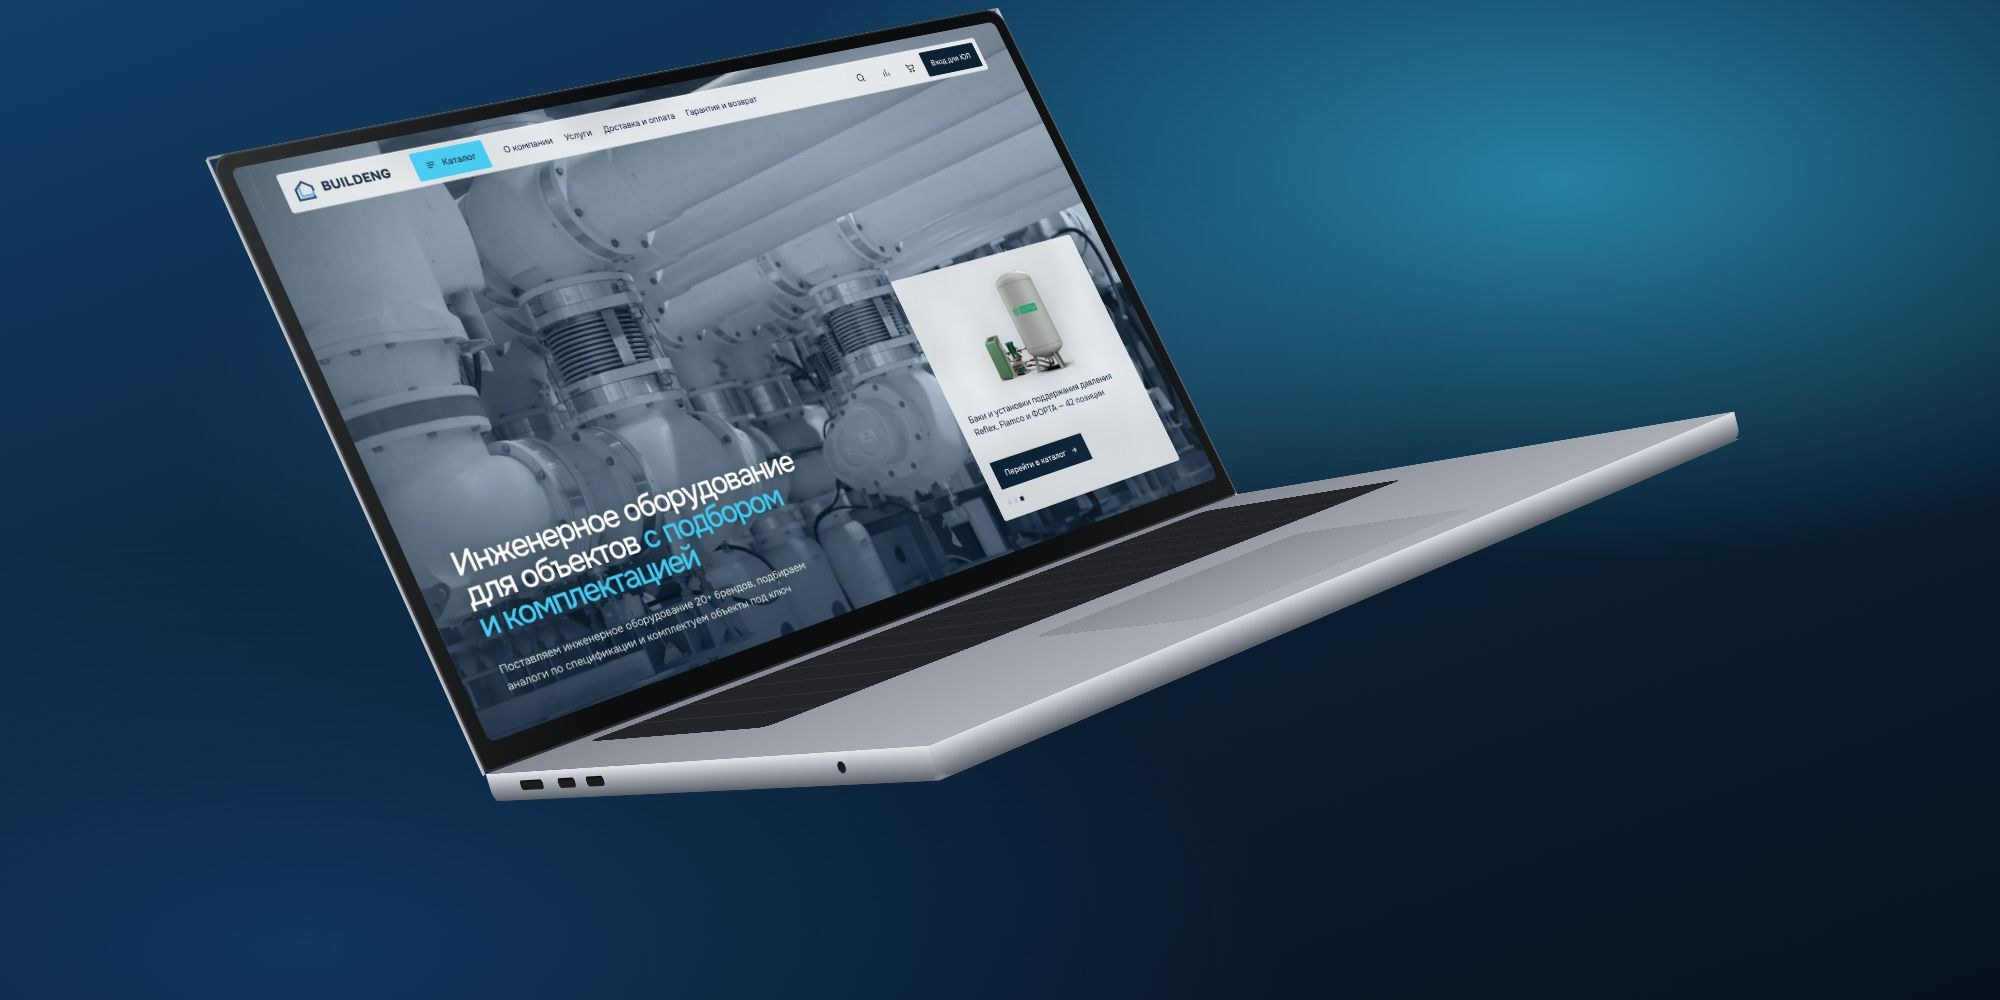
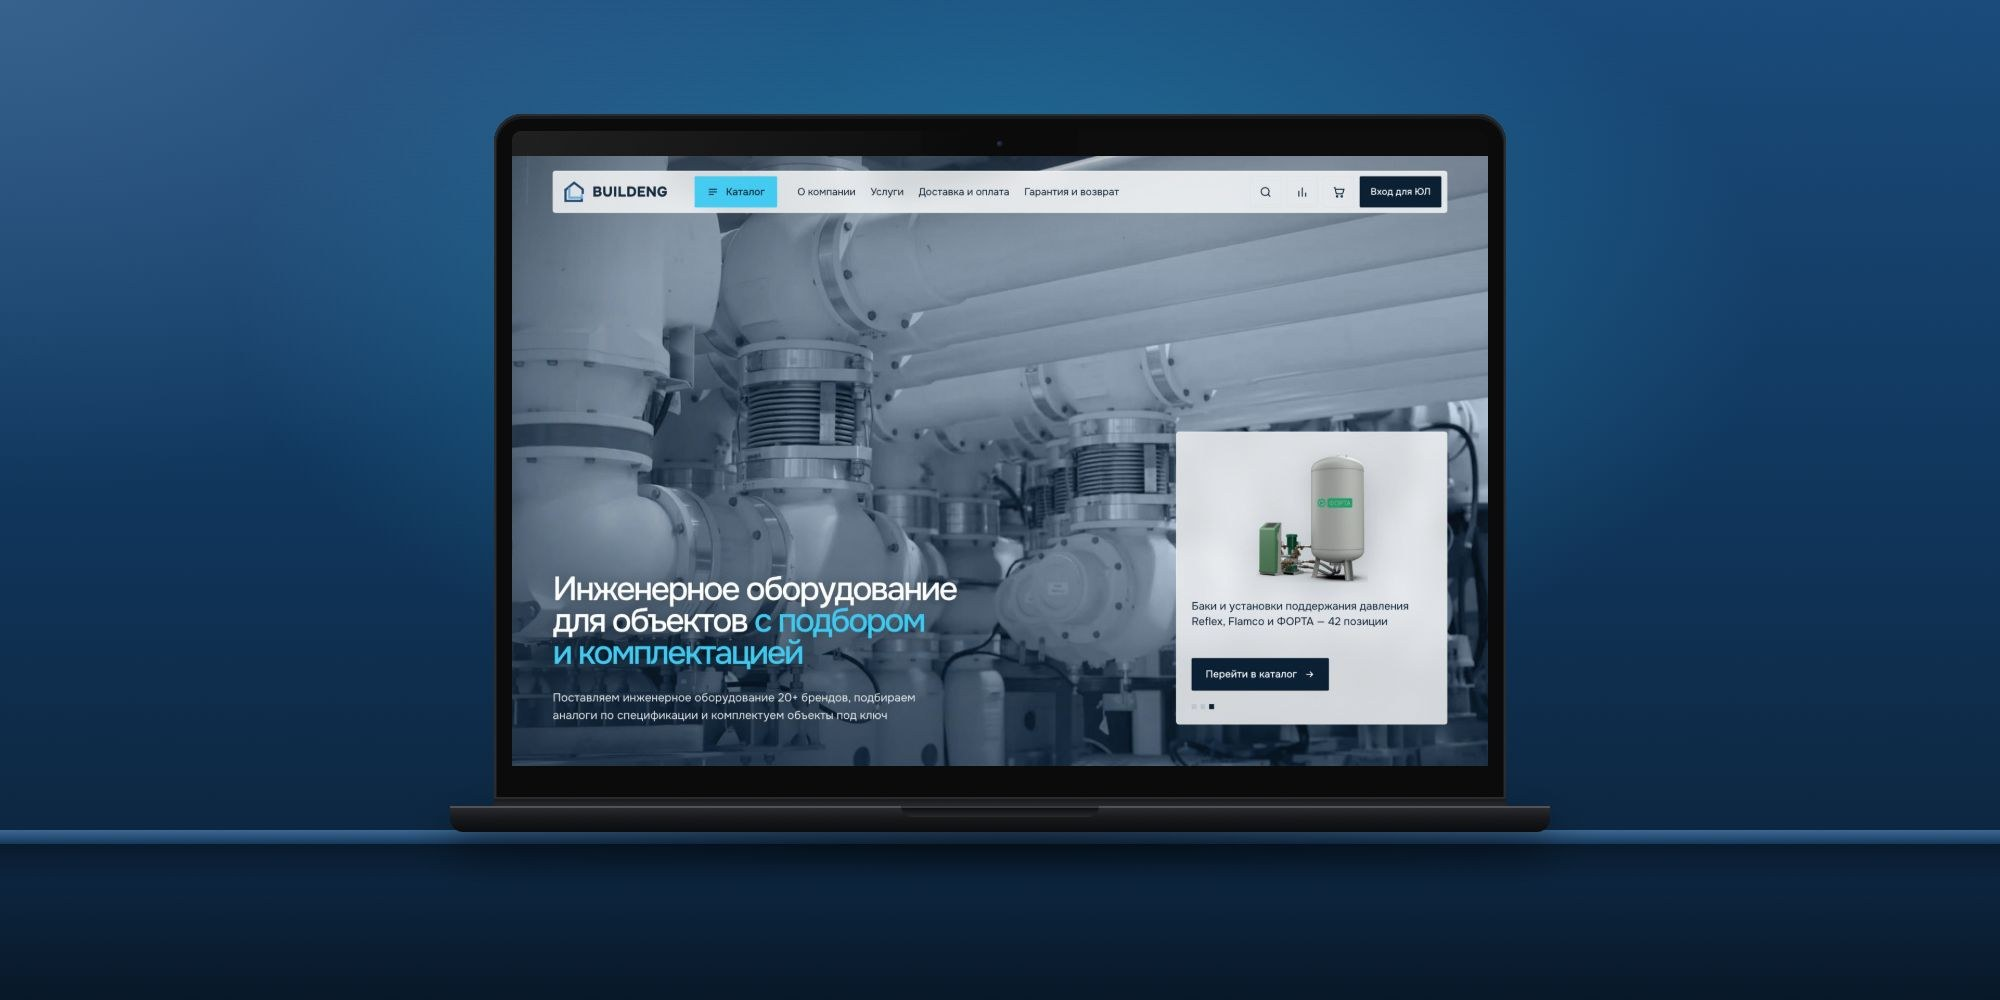
BuildEng cover: front MacBook mockup on brand gradient

diff --git a/index.html b/index.html
@@ -266,7 +266,7 @@ const P=[
   facts:[['Клиент','NDA'],['Роль','UX/UI-дизайн продукта'],['Платформы','Веб и мобайл'],['Статус','В работе']],
   text:['ИИ-платформа для интерьера: по фотографии создаёт или улучшает пространство — от ремонта и меблировки до готовой визуализации.','Проектирую веб- и мобильную версию: дашборд, сценарии редизайна, меблировки и расхламления, выбор параметров генерации, библиотеку проектов и уведомления. Экраны скрыты по NDA.'],
   gal:[{src:'img/interior.jpg'},{src:'img/ai-mobile.jpg'}]},
- {id:'buildeng',f:'concept',t:'BuildEng',cat:'Концепт · B2B e-commerce',c:'#b9cad9',cover:'img/cover-buildeng.jpg?v=2',coverW:'img/cover-buildeng-w.jpg?v=2',label:'Концепт',
+ {id:'buildeng',f:'concept',t:'BuildEng',cat:'Концепт · B2B e-commerce',c:'#b9cad9',cover:'img/cover-buildeng.jpg?v=3',coverW:'img/cover-buildeng-w.jpg?v=3',label:'Концепт',
   tags:['Концепт','E-com','B2B'],
   s:'Концепция главной для поставщика инженерного оборудования.',
   facts:[['Клиент','BuildEng'],['Роль','Концепция, UX/UI'],['Объём','Главная страница, десктоп'],['Год','2026']],
